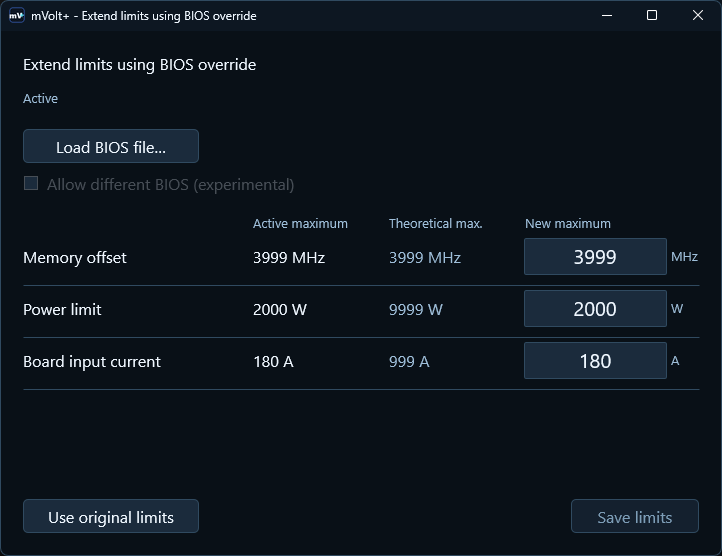
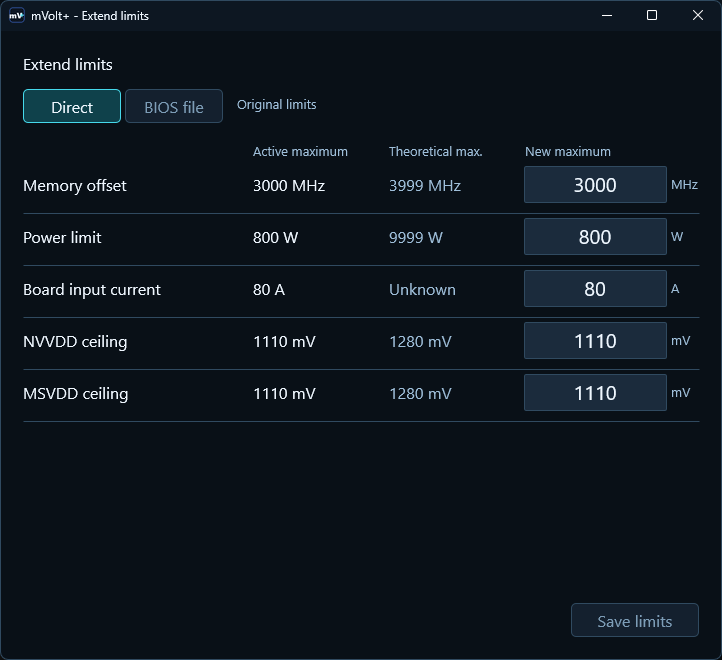
v0.50.2

diff --git a/docs/guide.md b/docs/guide.md
@@ -1,9 +1,10 @@
 # mVolt+ user guide
 
-**For mVolt+ v0.50.1** · [Back to the project](../README.md) · [Releases](https://github.com/b00nz/mVolt/releases/latest)
+**For mVolt+ v0.50.2** · [Back to the project](../README.md) · [Releases](https://github.com/b00nz/mVolt/releases/latest)
 
 This guide covers tuning, profiles, monitoring and startup. Expand a section
-for details. Screenshots show v0.50.1. Shown values are examples, not recommendations.
+for details. Screenshots show v0.50.1 unless noted; Extend limits shows v0.50.2.
+Shown values are examples, not recommendations.
 
 ## Find your way
 
@@ -13,7 +14,7 @@ for details. Screenshots show v0.50.1. Shown values are examples, not recommenda
 | [First start and tile presets](#first-start-and-tile-presets) | Three starting layouts and the complete tile table |
 | [Dashboard control reference](#dashboard-control-reference) | Every tile, grouped as it appears in the app |
 | [Power cap in watts](#power-cap-in-watts) | Watt targets, percentage limits and Reset |
-| [Extend limits using BIOS override](#extend-limits-using-bios-override) | Load a BIOS copy, change ceilings and restore limits |
+| [Extend limits](#extend-limits) | Direct or BIOS-file limits, activation and recovery |
 | [BIOS copy](#bios-copy) | Save a copy with GPU-Z or NVFlash |
 | [Thermal inputs](#thermal-inputs) | Fixed inputs to VFE, Default, Reset and profiles |
 | [Voltage limits and measured voltage](#voltage-limits-and-measured-voltage) | VMIN, REL, ALT/OP, OV, linked editing and MAX |
@@ -24,7 +25,7 @@ for details. Screenshots show v0.50.1. Shown values are examples, not recommenda
 | [Telemetry](#telemetry) | Sensors, graphs, boost reasons, memory timings and PCIe |
 | [Overview](#overview) | A compact view of current settings |
 | [Settings and layout](#settings-and-layout) | Polling, RTSS, themes, sizing and tile visibility |
-| [Advanced tuning](#advanced-tuning) | Extended demands, OCP unlock and XOC |
+| [Advanced tuning](#advanced-tuning) | Extended demands, OCP unlock, XOC and shunt correction |
 | [Compatibility and multiple GPUs](#compatibility-and-multiple-gpus) | Selecting hardware and understanding unavailable controls |
 | [Command line and automation](#command-line-and-automation) | Read-only commands and immediate tuning requests |
 | [Files and logging](#files-and-logging) | Profiles, backups and storage footprint |
@@ -351,7 +352,7 @@ tools are not always directly comparable. Reset clears the memory offset.
 Targets are checked against the driver's current offset range. Profiles and
 the CLI use the same range checks as dashboard Apply.
 To change the available ceiling where supported, use
-[Extend limits using BIOS override](#extend-limits-using-bios-override).
+[Extend limits](#extend-limits).
 
 </details>
 
@@ -945,7 +946,7 @@ the snapshot accepts the cap at the driver's maximum and leaves it there.
 Board input current, GPU fan policies and Thermal limit follow the same profile
 participation rules where supported. Older app versions may not read profiles
 saved with newer controls; keep the automatic migration backups when downgrading.
-BIOS-override ceilings are managed separately and are not installed by applying
+Extended limits are managed separately and are not installed by applying
 a tuning profile.
 
 ### Save, preview and apply
@@ -963,8 +964,9 @@ a tuning profile.
 | Restore backup | Restores the backup profile file without applying its settings |
 | Delete | Removes the selected profile after confirmation; applied settings stay in place |
 
-The header profile menu applies immediately. Long menus scroll, with **Manage
-profiles** at the top when scrolling is needed. After an apply, mVolt+ can recognize
+Selecting a profile in the header menu applies it immediately. The mouse wheel
+navigates long menus without applying a profile; **Manage profiles** remains at
+the top. After an apply, mVolt+ can recognize
 the profile on the next launch if the GPU settings still match, without applying it
 again. **Custom** means no saved profile is currently identified as active.
 
@@ -1186,11 +1188,12 @@ Examine errors and traffic together under comparable conditions.
 </details>
 
 <details>
-<summary><strong>GPU info</strong> — identity, silicon binning and Vrel</summary>
+<summary><strong>GPU info</strong> — ASIC information, ECID and Vrel</summary>
 
-Shows read-only Speedo, NVVDD/MSVDD Iddq and OC-bin readings where available.
-These are reported binning values, not an overclocking score or a promise of
-stable clocks.
+**ASIC information** shows Speedo, NVVDD/MSVDD Iddq and OC-bin readings where
+available. **Speedo position** places the value within the driver's reported
+range; it does not rank the card against other GPUs or predict stable clocks.
+The **ECID** identifies the chip; right-click to copy it where available.
 
 Each rail's **Firmware-reported Vrel** is shown beside its **Reported Vrel
 offset**. The offset is already accounted for in the reported limit; do not add
@@ -1266,8 +1269,15 @@ measured readings; firmware-requested voltage is not substituted in the overlay.
 
 Choose from GPU/driver identity, the applied profile, Boost Lock, rail voltages,
 core/memory/fabric clocks, GPU/hotspot/memory temperatures, fan duty/RPM, power
-versus enforced limit, GPU load and VRAM used/total. Missing or stale readings
-are omitted. VRAM usage is for the whole GPU, not just the current game.
+versus enforced limit, GPU load and VRAM used/total. Use the group buttons to
+find each option; the **Overlay preview** shows the selected lines. Missing or
+stale GPU readings are omitted. VRAM usage is for the whole GPU, not just the current game.
+
+The **Frame rate** group adds FPS, frame time, average FPS, 1% low and 0.1% low.
+RTSS supplies these values in the target application. Start RTSS benchmark
+recording for average and low statistics. The preview shows `--` for frame
+statistics; their values appear in the overlay. These options do not add an FPS
+history to the Telemetry window.
 
 ### Hotkeys
 
@@ -1296,6 +1306,8 @@ Your scroll position is kept unless collapsing the section leaves less content
 to scroll. **Sections → Show/Hide tiles** opens a grouped submenu with checkmarks.
 Changing visible tiles keeps your chosen window size, including a narrow
 single-column layout. Sections also offers pinning and collapse controls.
+NVVDD and MSVDD overvoltage rows have separate visibility entries beside their
+parent voltage controls. Hiding a parent card also hides its overvoltage row.
 Pinning moves a card to Quick tuning; hiding removes
 it from view. **Hiding, collapsing and pinning do not change whether a setting
 is applied or stored in a profile.** Apply still includes hidden enabled cards.
@@ -1304,7 +1316,7 @@ pin one. Existing saved pins are preserved.
 
 ## Advanced tuning
 
-These options change the ranges mVolt+ permits you to edit. They do not establish
+The three range options change the values mVolt+ permits you to edit. They do not establish
 that higher values are appropriate for your hardware.
 
 All three start off in a new configuration. Saved choices are restored. mVolt+
@@ -1328,35 +1340,52 @@ are editing limits, not measured voltages or safe operating-voltage ratings.
 Both modes edit offsets; the resulting voltage limits can change with operating
 conditions.
 
-## Extend limits using BIOS override
+### Shunt multiplier
 
-Open **Settings → Advanced tuning → Extend limits using BIOS override** to change
-supported ceilings for **Memory offset**, **Power limit** and **Board input current**.
+For a shunt-modded card, enable **Shunt multiplier** and enter a factor from
+**1.00 to 10.00**. It corrects supported board/input power and current readings,
+displayed power limits, session energy and corresponding RTSS displays.
+Corrected Telemetry values show the multiplier beside them.
 
-![Extend limits using BIOS override](../assets/mvolt-extended-limits.png)
+This is a display preference for the selected GPU. Tuning inputs, saved tuning values,
+voltages, CLI output and diagnostic reports keep their original values. Turning
+it off restores the uncorrected display.
 
-**This does NOT flash the card's BIOS.** The override is saved in this Windows
-installation and stays active across reboots until reverted. It does not turn
-the displayed limits into recommended settings or guarantee stability.
+<a name="extend-limits-using-bios-override"></a>
+
+## Extend limits
+
+Open **Settings → Advanced tuning → Extend limits** to change supported ceilings
+for **Memory offset**, **Power limit**, **Board input current**, **NVVDD** and **MSVDD**.
+
+![Extend limits — v0.50.2](../assets/mvolt-extended-limits.png)
+
+Choose **Direct** to edit limits without a BIOS file, or **BIOS file** to use a
+BIOS copy. Direct is the default. Available methods depend on the driver; hover
+over an unavailable method for the reason. Existing saved limits remain manageable.
+
+**Neither method flashes the card's BIOS.** Limits are saved in this Windows
+installation and remain active across reboots until reverted. The displayed
+maxima are not recommended settings or a guarantee of stability.
 
 ### Load, save and apply
 
-1. Obtain a [BIOS copy](#bios-copy), preferably from your own card. If the current
-   BIOS is already available and the editor works, another import is unnecessary.
-2. Choose **Load BIOS file…** and select the copy. Loading only previews it.
-3. For a matching copy, enter the supported **New maximum** values and choose
-   **Save limits**.
-4. Choose **Restart GPU** or **Restart Windows**. Save work first; the display
+1. Select the intended GPU, open Extend limits and choose a method. **Direct**
+   needs no file. For **BIOS file**, use **Load BIOS file…** if a copy is needed;
+   loading only previews it. See [BIOS copy](#bios-copy).
+2. Change the supported **New maximum** values you want to adjust, then choose
+   **Save limits**. Unedited rows keep their settings.
+3. Choose the offered **Restart GPU** or **Restart Windows** action. Save work first; the display
    may briefly go blank during a GPU restart. **Later** leaves the changes pending.
-5. Wait for the confirmation that the BIOS and limits are active and verified.
-6. Return to the dashboard, enter your tuning targets and choose **Apply changes**.
+4. Wait for confirmation that the limits are active.
+5. Return to the dashboard, enter your tuning targets and choose **Apply changes**.
 
 **Saving a ceiling does not apply a memory offset, watt target or current target.**
 The last step is still required.
 
 | Column | Meaning |
 | --- | --- |
-| **Active maximum** | The ceiling currently read back from the driver |
+| **Active maximum** | The ceiling currently in effect |
 | **Theoretical max.** | Guidance only; not a guaranteed working or safe limit |
 | **New maximum** | The ceiling you want to save; it is not active yet |
 
@@ -1364,9 +1393,17 @@ An unavailable row does not prevent another supported row from being used.
 Theoretical values are guidance, not a separate input cap. A higher entry may
 be accepted without producing a higher usable limit.
 
+The NVVDD and MSVDD rows set the BIOS-declared voltage ceilings. Their effect
+still depends on the card's voltage regulation; raising one may have no effect
+on the voltage limit the card can reach.
+
+To switch the method of saved limits, choose the other method and follow the
+restart steps. Once the original limits are confirmed, previous entries return
+as drafts where supported. Review them and choose **Save limits** to use the new method.
+
 ### BIOS copy
 
-Keep an untouched copy from your card before changing its limits. Use either tool:
+For the BIOS-file method, use an untouched copy from your card. Save one with either tool:
 
 - **[GPU-Z](https://www.techpowerup.com/gpuz/):** select the correct GPU, click the
   save icon beside **BIOS Version**, choose **Save to file…**, and save the `.rom`.
@@ -1388,7 +1425,8 @@ Keep an earlier untouched copy if you want to preserve the starting version.
 
 ### Already modified or different BIOS
 
-If mVolt+ still has its recovery data, loading the same BIOS or its recorded
+These options belong to the **BIOS file** method. If mVolt+ still has its recovery
+data, loading the same BIOS or its recorded
 starting copy does not require the experimental checkbox. **Use current BIOS**
 leaves the file preview and returns to the current editor.
 An older copy that cannot be matched needs the experimental path, even if it
@@ -1405,13 +1443,15 @@ GPU from starting. Prefer a copy from your own card.
 
 ### Restoring limits
 
-- **Use original limits** restores the recorded starting state.
+- **Use original limits / Remove BIOS override** restores the recorded starting
+  state or removes the saved override, as described in its hover help.
 - **Revert changes**, when offered, restores the last confirmed working state.
 - Finish the requested GPU or Windows restart and wait for confirmation.
 
 The recorded starting state may already include earlier modifications; it is
-not necessarily factory stock. Dashboard **Reset all** does not remove the BIOS
-override.
+not necessarily factory stock. Dashboard **Reset all** does not remove saved
+extended limits. Explicit override removal requires a full Windows restart;
+use **Restart Windows** or **Later** when those are the offered actions.
 
 Keep `%PROGRAMDATA%\mVolt+\NativeLimits`. Deleting it does not remove an active
 override and can lose the saved starting state. If it is missing, reopen mVolt+
@@ -1422,6 +1462,11 @@ keep the remaining files and [report the issue](https://github.com/b00nz/mVolt/i
 <details>
 <summary><strong>Recovery when the NVIDIA driver cannot start</strong></summary>
 
+If mVolt+ offers startup recovery, choose **Remove BIOS override** to remove the
+stored override for the affected GPU. After removal, choose **Restart Windows**
+or **Later**. Restart Windows before checking the GPU again. Removal does not
+restart Windows automatically.
+
 If the saved recovery data is intact, open an administrator PowerShell window
 in the mVolt+ folder. Replace `RECORD_ID` with the 64-character folder name for
 the affected GPU under `%PROGRAMDATA%\mVolt+\NativeLimits`:
@@ -1430,8 +1475,9 @@ the affected GPU under `%PROGRAMDATA%\mVolt+\NativeLimits`:
 .\mVolt+.exe --recover-limits RECORD_ID | Out-Host
 ```
 
-This restores the last confirmed working state without requiring the NVIDIA
-driver. Restart Windows when requested, then reopen mVolt+ to verify it.
+The command restores the last confirmed working state, or finishes an override
+removal already in progress, without requiring the NVIDIA driver. Restart
+Windows when requested, then reopen mVolt+ to verify it.
 It does not necessarily restore factory settings, and cannot recreate deleted
 recovery data. If the record is unclear or recovery fails, report the issue.
 
@@ -1485,6 +1531,7 @@ includes these readings:
 
 | JSON field | Meaning |
 | --- | --- |
+| `active_profile` | Verified applied profile name, `"Custom"` for changed settings, or `null` when it cannot be verified |
 | `power_limits.requested_mw` | Requested board power limit in milliwatts |
 | `power_limits.enforced_mw` | Limit currently enforced by the driver, in milliwatts |
 | `power_limits.default_mw` | Driver-reported default board power limit |
@@ -1496,6 +1543,15 @@ storage, not a current temperature. A fixed zero-degree input instead has
 `overridden:true` and `input_c:0`. A clock request whose completion is unknown
 reports `clock_range_mhz.uncertain:true` and `locked:null` when the range interface
 is available. Existing status fields remain supported.
+
+`active_profile` checks the applied profile, including its V/F curves, so scripts
+can distinguish presets with identical clock and voltage offsets. Querying
+status does not apply a profile. For example:
+
+```powershell
+$status = .\mVolt+.exe --status | ConvertFrom-Json
+$status.active_profile
+```
 
 **Tuning options apply immediately and require administrator privileges.**
 They do not create a dashboard draft. Unspecified controls are left untouched.

diff --git a/README.md b/README.md
@@ -2,7 +2,7 @@
 
 mVolt+ is a Windows utility for NVIDIA GPU tuning and monitoring. It supports
 core and fabric voltage limits, clock offsets, power limits, V/F and fan curves,
-and saved profiles.
+saved profiles and software BIOS override.
 
 RTX 50 series is the primary target. Support for earlier GeForce generations is
 experimental; available controls depend on the GPU, VBIOS and driver.
@@ -15,23 +15,29 @@ experimental; available controls depend on the GPU, VBIOS and driver.
 **[Report an issue](https://github.com/b00nz/mVolt/issues)**
 
 Run the executable; no installer is needed. Tuning requires administrator
-privileges. Read-only commands and the `--read-only` dashboard do not.
+privileges.
 
-This README and the guide cover **mVolt+ v0.50.1**. Check the release page for
+This README and the guide cover **mVolt+ v0.50.2**. Check the release page for
 the currently downloadable version.
 
-## v0.50.1 highlights
+## v0.50.2 highlights
 
-- **Extend limits using BIOS override:** change memory, power and board current ceilings on supported hardware. [Guide](docs/guide.md#extend-limits-using-bios-override).
-- **Board input current:** a separate control in amperes, with profile and Overview support.
-- **Minimal / Compact:** a smaller dashboard with separate expandable fan and thermal input rows.
-- **Fan control:** a unified mVolt / GPU editor, direct curve fields, experimental GPU policies and profile support.
+Major features and improvements from v0.50.1 and v0.50.2:
+
+- **Extend limits:** change supported memory, power, board-current and NVVDD/MSVDD ceilings. Use Direct without a BIOS file, or the BIOS-file method where available. Neither flashes the card. [Guide](docs/guide.md#extend-limits).
+- **Power and current:** percentage or watt-based power control, plus a separate board-input current control with profile and Overview support.
+- **Fan control:** a unified mVolt / GPU editor, direct curve fields and experimental GPU policies saved in profiles, including startup Apply, then exit.
 - **Thermal limit:** a separate temperature-limit control in °C, with profile support and Reset.
-- **Telemetry:** GPU info with silicon binning readings and firmware-reported Vrel, more temperature readings and expanded RTSS options.
-- **Shortcuts:** a global Toggle Boost Lock shortcut under Settings → Hotkeys.
-- **Fixes:** more reliable power controls, smoother window handling and improved profile and limits recovery.
+- **Minimal / Compact:** a smaller dashboard with expandable fan and thermal rows, independent overvoltage switches and visibility controls.
+- **Telemetry:** expanded GPU and memory temperatures, firmware-reported Vrel and ASIC information with Speedo and a copyable ECID where available.
+- **RTSS overlay:** profile and Boost Lock state, clocks, temperatures, fans, power, GPU load and VRAM, now joined by FPS, frame time, average FPS and lows, with grouped settings and a preview.
+- **Shunt multiplier:** an optional correction for supported power and current readings, including RTSS.
+- **Profiles and automation:** normal profiles, full snapshots, clearer save previews and the applied profile name in `--status` JSON.
+- **Shortcuts:** global profile shortcuts and a separate Toggle Boost Lock shortcut.
+- **Everyday use:** clearer hover help, scrolling in long profile menus, corrected slider behavior and better window handling across displays.
+- **Recovery:** improved Apply and Reset All, curve preservation, limit-method switching and startup recovery for stored overrides.
 
-[Full release notes](docs/releases/v0.50.1.md) · [Get a BIOS copy](docs/guide.md#bios-copy)
+[Release notes](https://github.com/b00nz/mVolt/releases) · [Get a BIOS copy](docs/guide.md#bios-copy)
 
 [Preset table](docs/guide.md#first-start-and-tile-presets) ·
 [V/F curves](docs/guide.md#vf-curve-editor) ·
@@ -52,8 +58,8 @@ the currently downloadable version.
 - **Power and cooling:** percentage or watt-based power control, board input
   current, Voltage Boost, NVVDD/MSVDD OCP, thermal limit, fixed fan duty and
   software or supported GPU fan-policy editing.
-- **Extended limits:** load a BIOS copy and change supported ceilings. The
-  override persists in this Windows installation; it does **NOT** flash the card.
+- **Extended limits:** use Direct or a BIOS file to change supported ceilings.
+  Saved limits persist in this Windows installation until reverted; neither method flashes the card.
 - **Monitoring:** rail and ADC readings, clock graphs, power, P-states,
   temperatures, boost-limit reasons, memory timings, memory pressure, PCIe traffic
   and GPU information.
@@ -132,13 +138,17 @@ Telemetry groups readings into Rails, Clocks, Power, P-states, Temperatures,
 Boost limits, Memory / PCIe and GPU info, opening on Rails by default. Memory / PCIe
 includes read-only memory timings on supported GB202 hardware.
 Clock graphs show values on hover. Hotspot, firmware clock history and detailed
-limit reasons appear where supported. GPU info shows read-only binning values
-and each rail's firmware-reported Vrel and offset.
+limit reasons appear where supported. GPU info shows ASIC information, a copyable
+ECID and each rail's firmware-reported Vrel and offset.
 
 RivaTuner Statistics Server is optional and only needed for its on-screen
 overlay. Choose the readings in **Settings → Monitoring**, including the applied
 profile, Boost Lock, clocks, temperatures, fan duty/RPM, power versus limit,
-GPU load and VRAM usage.
+GPU load, VRAM usage and frame statistics. Average FPS, 1% low and 0.1% low use
+RTSS benchmark recording. Grouped settings and an overlay preview help arrange the readings.
+
+For a shunt-modded card, **Settings → Advanced tuning → Shunt multiplier** can
+correct supported power and current displays. It does not change tuning values.
 
 [Telemetry reference](docs/guide.md#telemetry)
 
@@ -169,9 +179,9 @@ can clear them. **Software fan curves need mVolt+ running to follow temperature*
 the tray is sufficient. Fully exiting leaves the last fan duty fixed.
 Resetting fans to auto returns control to the GPU firmware.
 
-**BIOS overrides are different:** they remain active across reboots until
+**Extended limits** remain active across reboots until
 reverted. Saving limits does not apply dashboard tuning targets. Follow the
-[limits guide](docs/guide.md#extend-limits-using-bios-override), and keep the saved recovery data.
+[limits guide](docs/guide.md#extend-limits), and keep the saved recovery data.
 
 GPU tuning can cause instability or hardware damage. A setting accepted by the
 driver is not proof of stability; a reported device limit is not a safe-voltage
@@ -190,12 +200,15 @@ rating.
 Use the command line to inspect GPU status, select an adapter, apply a saved
 profile or set tuning values and domain curves directly. Direct CLI tuning
 applies immediately. The guide covers all options, units and automation examples.
+`--status` includes `active_profile`: the verified profile name, `"Custom"` for
+changed settings, or `null` when the applied profile cannot be verified.
 
 [CLI reference and automation](docs/guide.md#command-line-and-automation)
 
 ## Screenshots
 
-All screenshots show v0.50.1. The tuning values shown are examples, not recommended settings.
+Screenshots show v0.50.1 unless noted; the Extend limits screenshot shows v0.50.2.
+The tuning values shown are examples, not recommended settings.
 
 ### Minimal / Compact — v0.50.1
 
@@ -232,7 +245,7 @@ All screenshots show v0.50.1. The tuning values shown are examples, not recommen
 
 ![V/F Curve Editor](assets/mvolt-vf-curve-editor.png)
 
-![Extend limits using BIOS override](assets/mvolt-extended-limits.png)
+![Extend limits — v0.50.2](assets/mvolt-extended-limits.png)
 
 </details>
 
